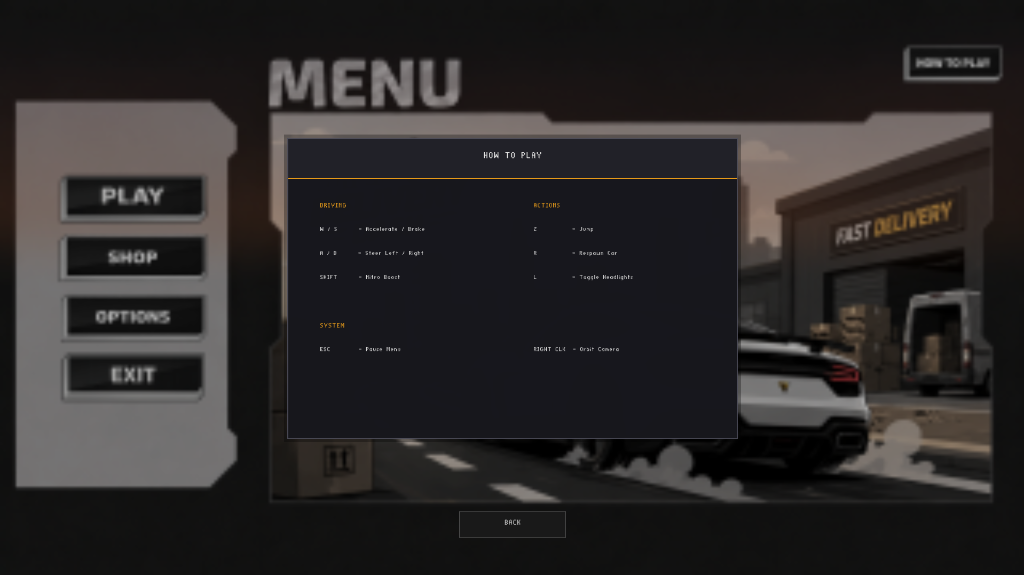
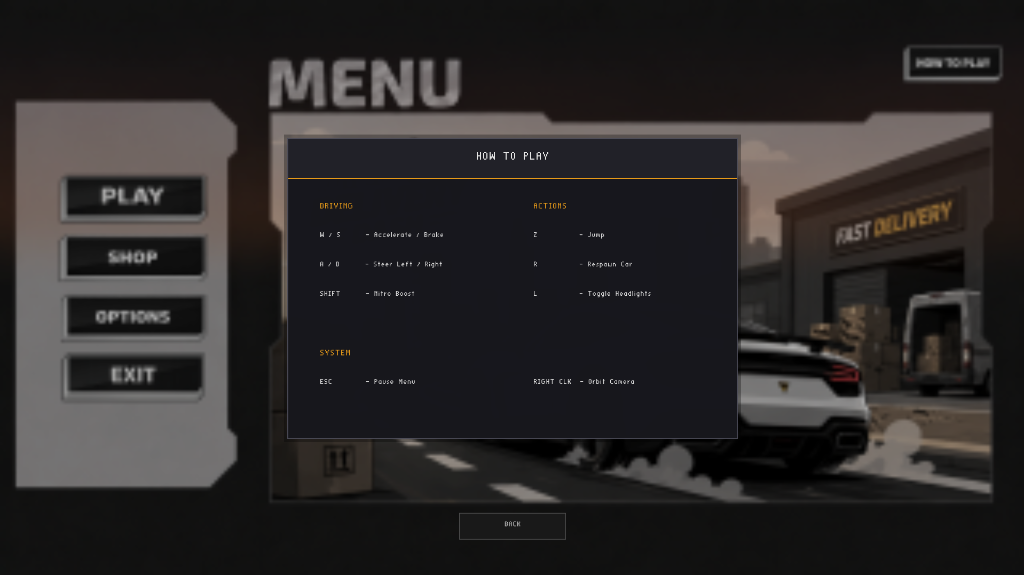
Update README with final UI screenshots for Shop and How To Play

diff --git a/README.md b/README.md
@@ -99,7 +99,7 @@ Follow these step-by-step instructions to compile and play the game on your loca
 ![In-Game Placeholder](https://via.placeholder.com/800x450.png?text=Add+Gameplay+Screenshot+Here)
 
 ### Shop Interface
-![Shop Interface Placeholder](https://via.placeholder.com/800x450.png?text=Add+Shop+UI+Screenshot+Here)
+![Shop Interface](docs/shop_ui.png)
 
 ---
 *Developed for the Graphics Programming (Programación Gráfica) Course.*
